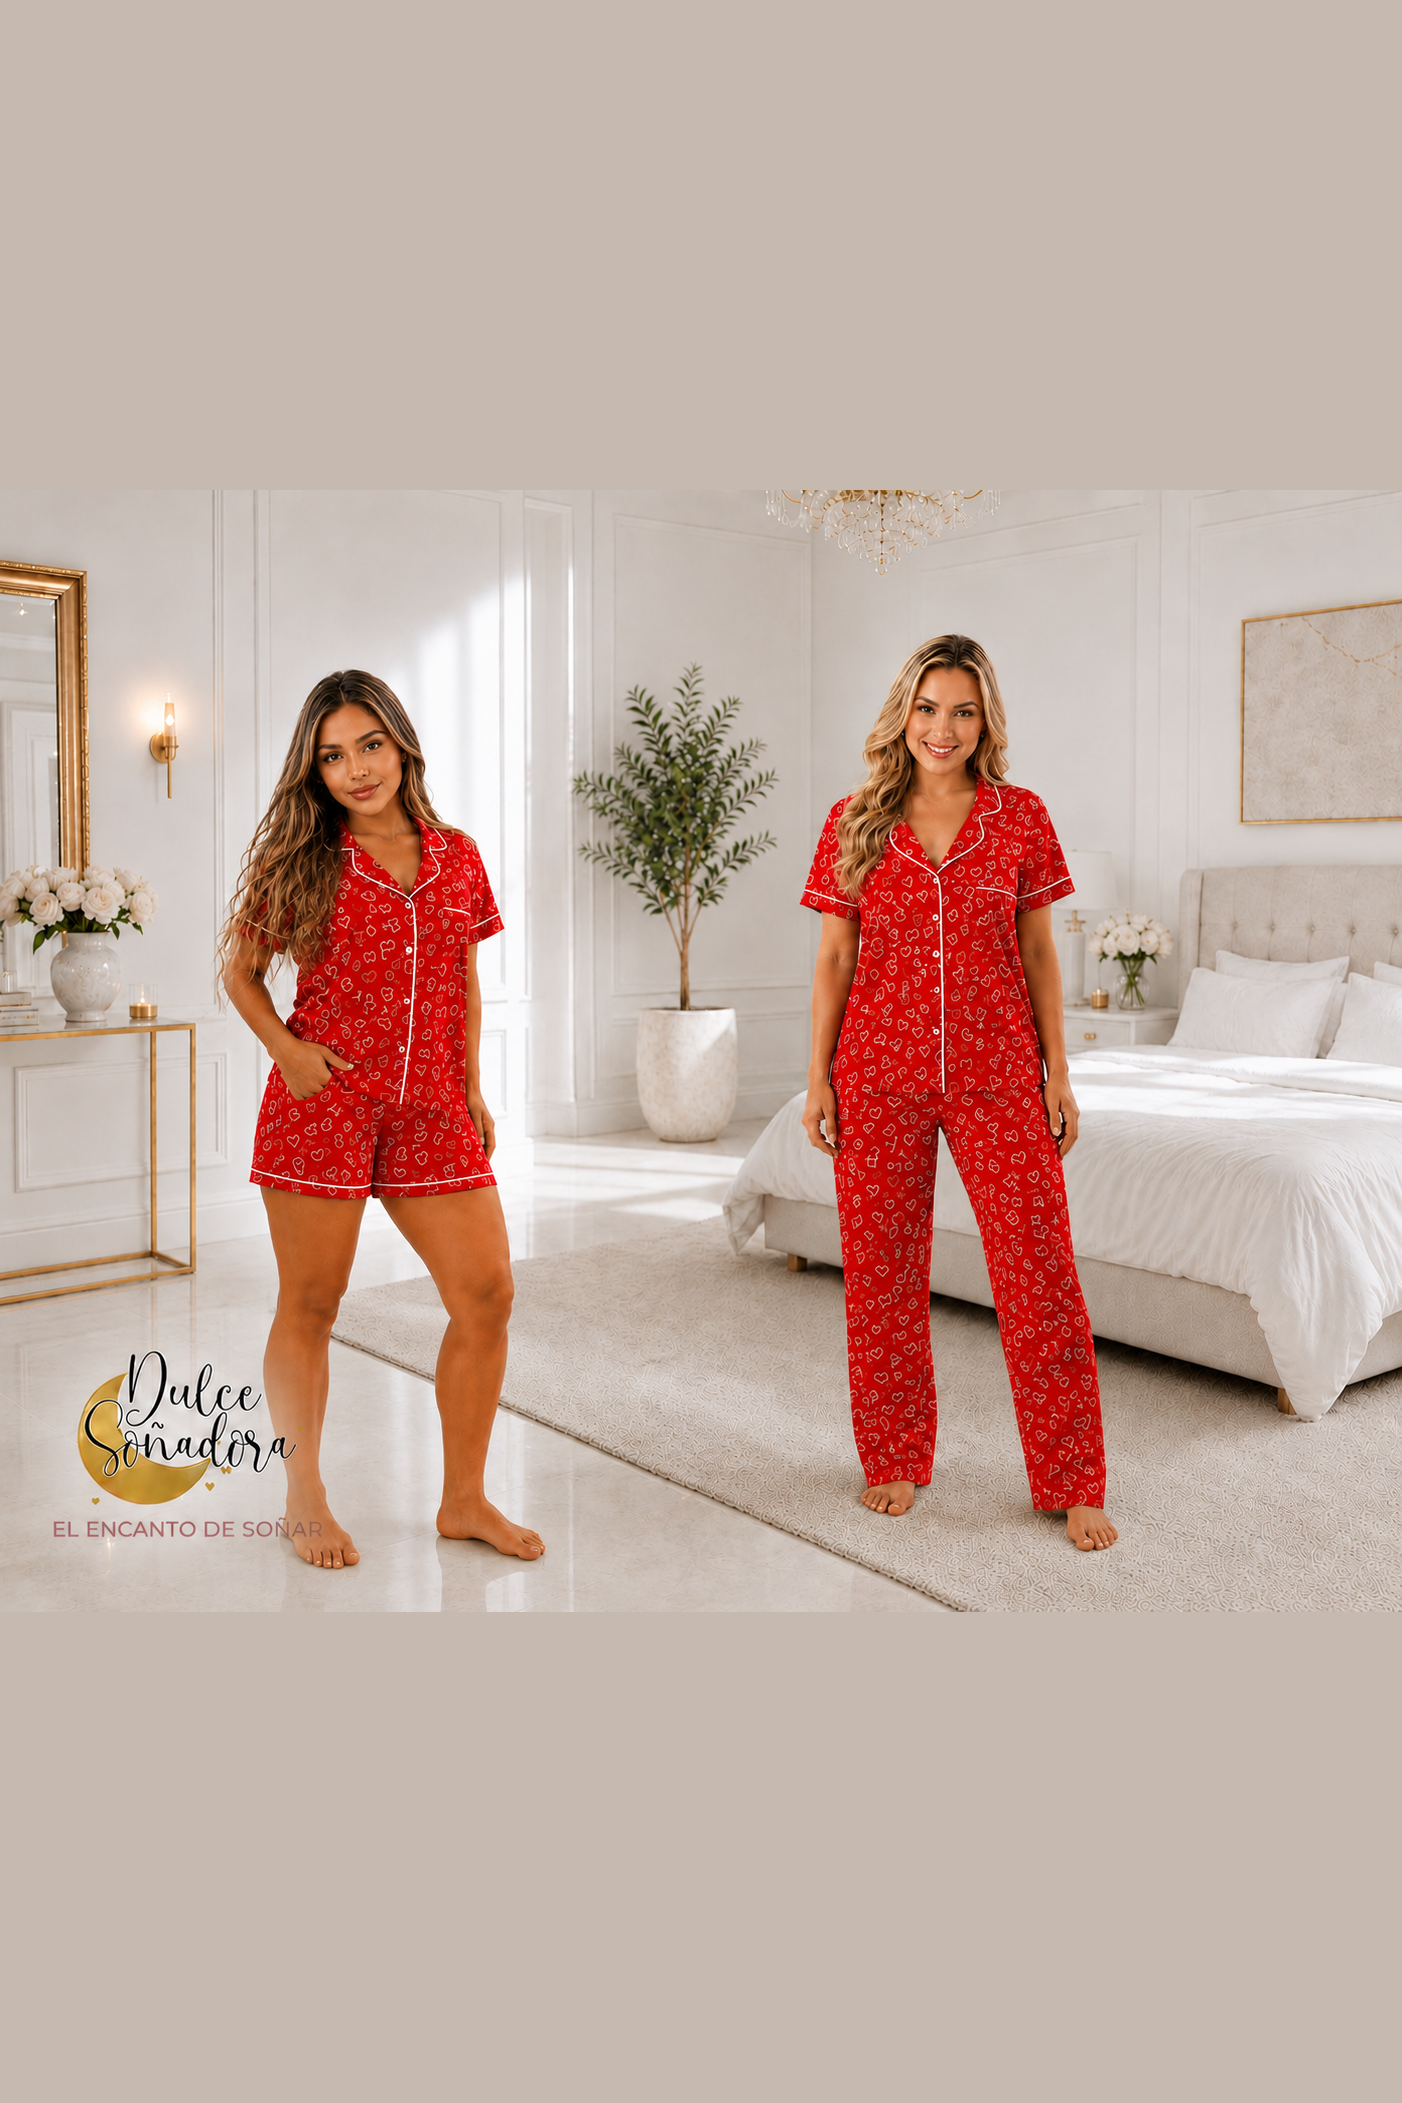
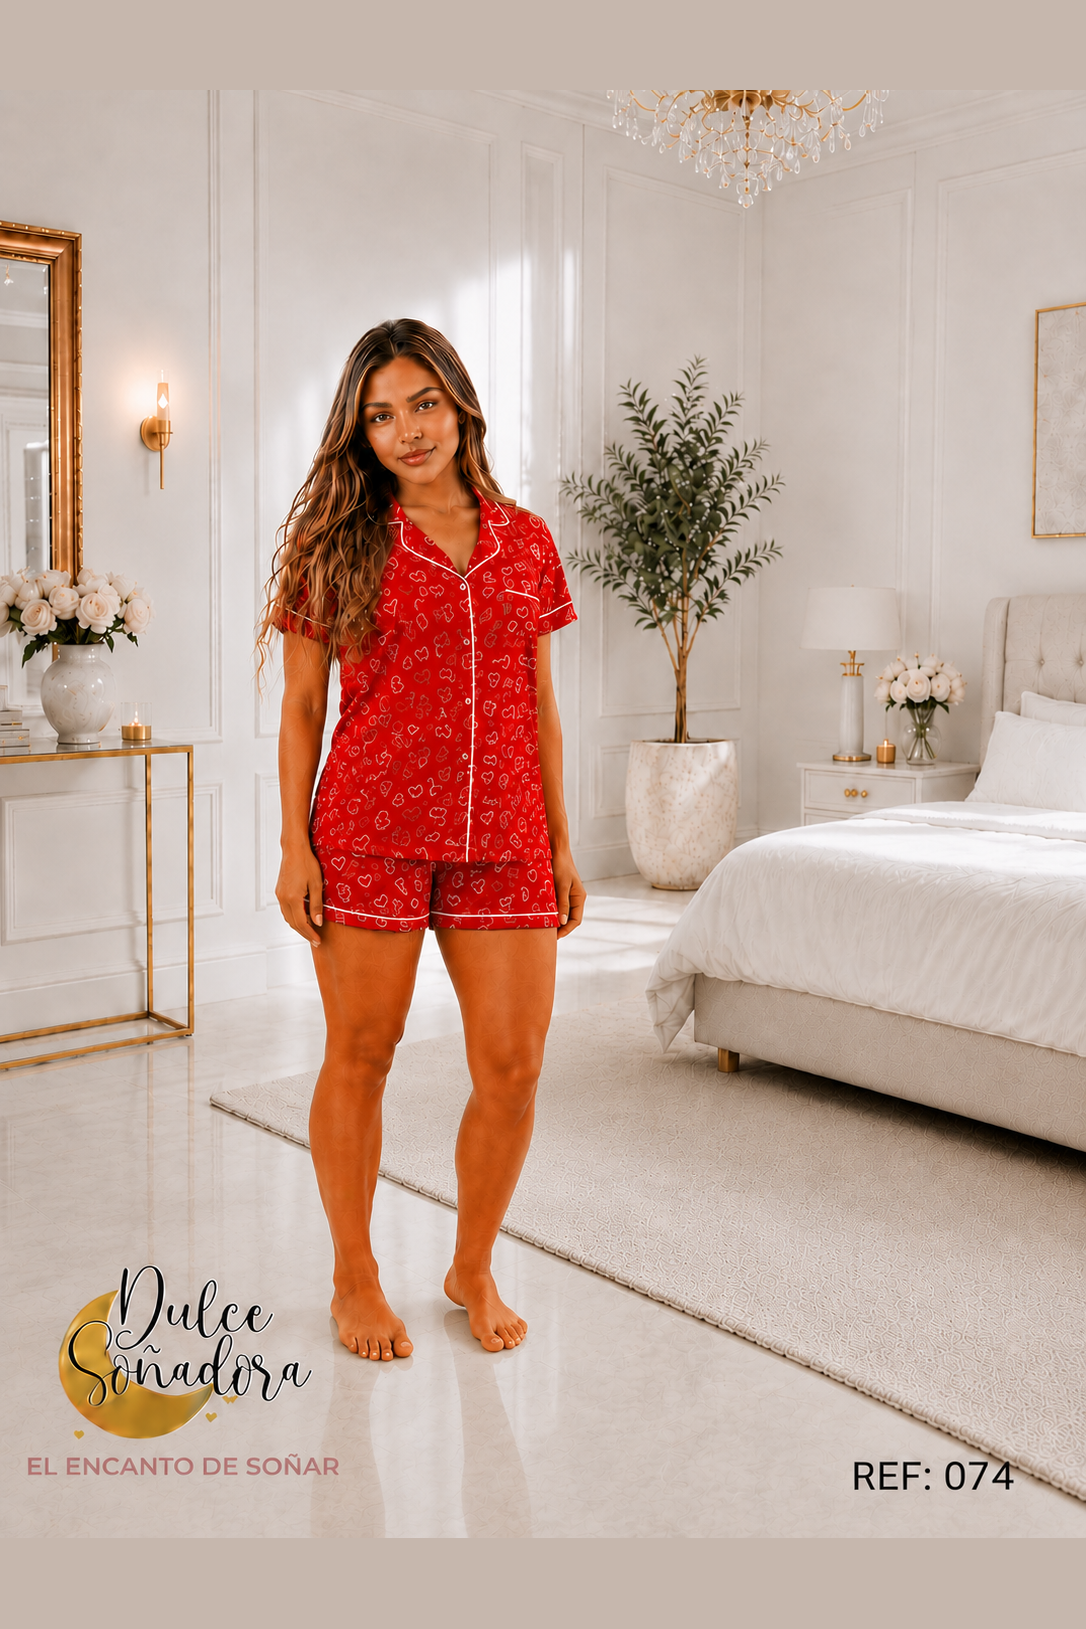
Refs 074/076: fotos nuevas dedicadas (confirman short vs pantalon, algodon)
Santiago subio fotos individuales con marca de agua REF: 074 (short) y
REF: 076 (pantalon largo) que reemplazan las derivadas de la foto
combinada. Cache-bust ?v=3 en ambas y en la portada de Short Algodon.

diff --git a/lib/data/products.ts b/lib/data/products.ts
@@ -1321,7 +1321,7 @@ export const products: Product[] = [
     name: 'Ref 074 - CONJUNTO CAMISA DE BOTONES MANGA CORTA Y SHORT ESTAMPADO',
     category: 'short-algodon',
     images: [
-      '/products/ref-074-camisa-botones-short-estampado/photo-1.png?v=2',
+      '/products/ref-074-camisa-botones-short-estampado/photo-1.png?v=3',
     ],
     priceRetail: 42000,
     priceWholesale: 32000,
@@ -1340,7 +1340,7 @@ export const products: Product[] = [
     name: 'Ref 076 - CONJUNTO CAMISA DE BOTONES MANGA CORTA Y PANTALON ESTAMPADO',
     category: 'pantalon-algodon',
     images: [
-      '/products/ref-076-camisa-botones-pantalon-estampado/photo-1.png?v=2',
+      '/products/ref-076-camisa-botones-pantalon-estampado/photo-1.png?v=3',
     ],
     priceRetail: 47000,
     priceWholesale: 37000,

diff --git a/lib/data/categories.ts b/lib/data/categories.ts
@@ -80,7 +80,7 @@ export const categories: Category[] = [
     name: 'Short Algodón',
     group: 'short',
     groupLabel: 'Shorts',
-    image: '/products/ref-074-camisa-botones-short-estampado/photo-1.png?v=2',
+    image: '/products/ref-074-camisa-botones-short-estampado/photo-1.png?v=3',
     description: 'Pijamas de short en algodón.',
   },
   {